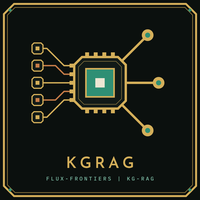
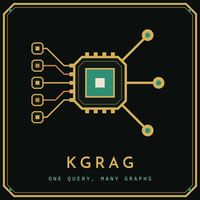
fix(brand): a tagline under the name
Set "ONE QUERY, MANY GRAPHS" under the name on the mark and banner instead of the
organization and repository name, which repeated the name above it.

Changed region(s): [[0.21, 0.87, 0.78, 0.93]]

diff --git a/scripts/build_logo.py b/scripts/build_logo.py
@@ -52,7 +52,7 @@ OBSIDIAN, PANEL, COPPER, GOLD, GREEN, MINT, SILK = (
 )
 
 NAME = "KGRAG"
-PART = "FLUX-FRONTIERS | KG-RAG"
+PART = "ONE QUERY, MANY GRAPHS"
 
 
 def rect(

diff --git a/CHANGELOG.md b/CHANGELOG.md
@@ -28,6 +28,9 @@ and this project adheres to [Semantic Versioning](https://semver.org/spec/v2.0.0
   sizes and the small badges now come from the icon. The README header shows
   the banner.
 
+- **The line under the name is a tagline.** The mark and banner read
+  "ONE QUERY, MANY GRAPHS" instead of the organization and repository name.
+
 ## [0.18.2] - 2026-11-09
 
 ### Changed
